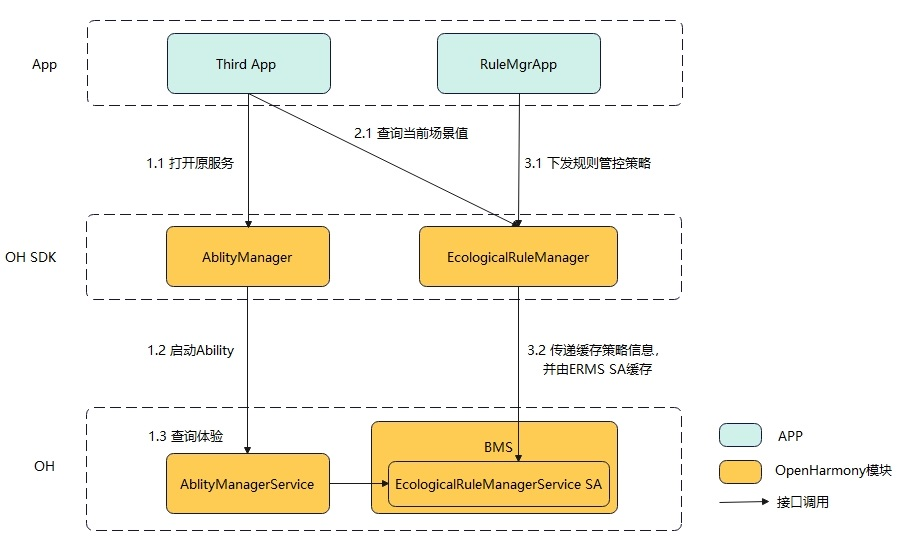
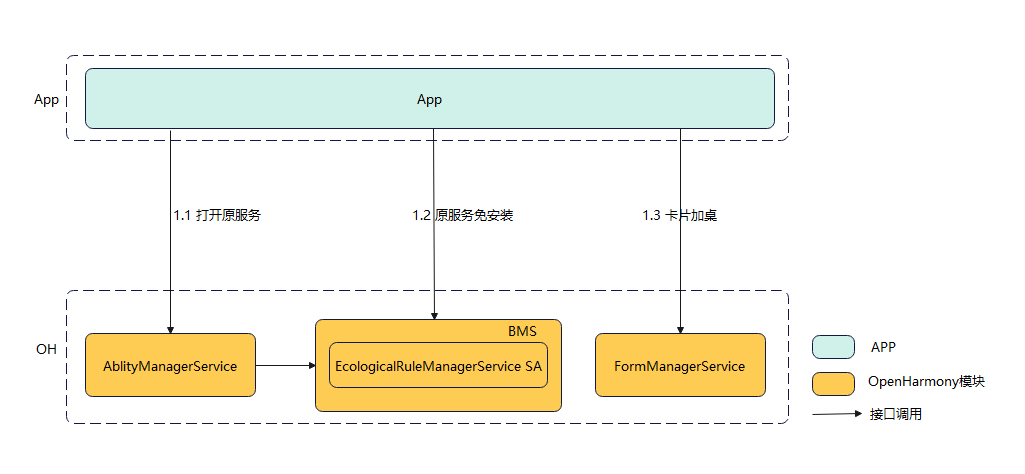
修改readme

diff --git a/README_zh.md b/README_zh.md
@@ -1,21 +1,18 @@
 # bundlemanager_ecological_rule_manager
 
 ### 简介
-生态规则管控服务负责对用户体验高敏感的行为（跳转、添加桌面卡片、免安装元服务）进行管控，确保整个生态的有序发展；
-在敏感行为发生时，支持根据规则策略数据，识别场景，做到场景化的体验管控；
-开发者可以基于场景，进行业务的差异化经营与分析，从而提升开发者的精细化运营诉求。
+生态规则管控服务提供一种系统的扩展能力，可以对用户体验的行为（跳转、添加桌面卡片、免安装元服务）进行管控。
+
 
 ### 软件架构
 ![image](figures/architecture_zh.jpg)
 
 以下是对于上图关键字段的描述信息：
 
-- `RuleMgrApp`：规则管控APP，负责管控规则，体验，APP数据的维护，刷新规则管控服务中相关数据。
-- `Third App`：三方App，在打开元服务时会受到生态规则服务的管控。
+- `App`：App，在打开元服务时会受到生态规则服务的管控。
+- `FormManagerService`：卡片管理服务。
 - `AbilityManagerService`：用于协调各Ability运行关系、及对生命周期进行调度的系统服务。
-- `EcologicalRuleManagerServie`：对下发的规则、策略等数据进行缓存，规则进行解析匹配，对业务提供相关接口。
-- `AbilityManager`：Ability管理SDK，由Ability管理服务提供。
-- `EcologicalRuleManager`：生态规则管理服务SDK，由ERMS SA提供。
+- `EcologicalRuleManagerServie`：生态规则管控服务，对元服务的拉起，加桌等行为进行管控。
 
 
 ### 目录结构
@@ -25,8 +22,7 @@
 ├── etc                                             
 │   └── init                                        # SA启动配置文件
 ├── interfaces                                      # 接口代码
-│   ├── innerkits                                   # 内部接口
-│   └── kits                                        # 外部接口
+│   └── innerkits                                   # 内部接口
 ├── profile                                         # 服务配置文件
 ├── services                                        # 服务代码
 ├── LICENSE                                         # 证书文件
@@ -44,130 +40,12 @@
 --ccache：编译时使用缓存功能。
 --build-target: 编译的部件名称。
 
-### 使用说明
-规则管控服务需要开发RuleMgrApp，下发生态规则管控策略到EcologicalRuleManagerService，才能在元服务的加载，拉起，加桌时起到管控的作用。主要有如下几步：
-#### 1 开发RuleMgrApp，申请权限 ohos.permission.MANAGE_ECOLOGICAL_RULE
-#### 2 刷新生态管控策略
-下发规则策略数据，场景体验，APP增强数据到EcologicalRuleManagerService：
-##### 2.1 下发规则策略数据
-规则策略数据用于描述场景值和对应的管控策略，采用DSL语言描述，支持对操作符的扩展。通过接口 function setRuleInfo(ruleInfo: string): number 下发，ruleInfo为json格式，描述策略信息。
-###### 示例（ruleInfo: string）
-下发两个策略：
-- 策略1
-场景值：10000；
-匹配规则：被调用方的包名是com.myapplication.test，或者从元服务中跳出；
-场景体验：如果是加载，则执行体验 action:"com.ecological.experience.LOAD_ABILITY"，由RuleMgrApp定义并处理该action；如果是拉起，则直接允许。
-- 策略2
-场景值：10001；
-匹配规则：调用方的包名是com.myapplication.test，并且是跳入元服务；
-场景体验：如果是加载，则直接允许；如果是打开元服务，则执行体验 action:"com.ecological.experience.OPEN_ABILITY"，由RuleMgrApp定义并处理该action。
-
-对应ruleInfo：
-```
-{
-	"dataVersion": "1",   
-	"list": [
-        {
-		"condition": "OR(EQUAL(BUNDLENAME(want),\"com.myapplication.test\"),
-                         IS_JUMP_TYPE(caller,want,\"1\"))",
-		"experience": {
-			"load": 2,
-			"open": 1
-		},
-		"sceneCode": "10000"
-	    }, 
-        {
-		"condition": "AND(IS_JUMP_TYPE(caller,want,\"2\"),
-                          EQUAL(BUNDLENAME(caller),\"com.myapplication.test\"))",
-		"experience": {
-			"load": 1,
-			"open": 2
-		},
-		"sceneCode": "10001"
-	}]
-}
-
-```
-|关键字|含义|
+### 接口使用说明
+生态规则管控服务只对系统的AMS/BMS/FMS开放内部接口，系统根据实际需要进行接口功能扩展。
+|接口|说明|
 |---|---|
-|dataVersion|规则数据的版本号|
-|List|规则数据列表，支持多条规则数据|
-|condition|规则DSL描述，当前支持 OR，EQUAL，IS_JUMP_TYPE，BUNDLENAME四种操作符，可以根据自己需要扩展|
-|experience|标识匹配该规则数据后，如果是加载（load），返回体验2；拉起（open），返回体验1；load，open 对应sceneExperience中的key, load对应"1", open对应"2"；load，open的取值对应下一级的key|
-|sceneCode|该规则对应的场景值|
+|QueryStartExperience(const Want &want, const CallerInfo &callerInfo, ExperienceRule &rule)：int32_t|提供给AMS使用，在元服务打开时调用。ExperienceRule为返回值，返回是否允许打开；不允许时可以返回具体的体验Want。|
+|QueryFreeInstallExperience(const Want &want, const CallerInfo &callerInfo ExperienceRule &rule)：int32_t|提供给BMS使用，在元服务免安装时调用。用于判断是否允许免安装，不允许时可以返回具体的体验Want。|
+|IsSupportPublishForm(const vector<AAFwk::Want> &wants, const CallerInfo &callerInfo, bool &bSupport)：int32_t|提供给FMS使用，在卡片加桌时调用。用于判断是否允许加桌|
+|EvaluateResolveInfos(const Want &want, const CallerInfo &callerInfo, int32_t type,std::vector<AbilityInfo> &abilityInfos)：int32_t|提供给AMS使用，根据垂类类型type对abilityInfos进行黑名单剔除，返回剔除后的列表|
 
-##### 2.2 下发场景体验：
-场景体验描述场景值对应的体验配置和允许加桌名单配置。通过接口 function setSceneExperience(ruleConfig: string, sceneExperience: string): number 下发，sceneExperience，ruleConfig均为json格式，sceneExperience描述体验，ruleConfig描述允许加桌的app包名。
-
-###### 示例1（sceneExperience: string）
-```
-{
-	"sceneExperience": {
-		"1": {
-			"1": {"allow": true},
-			"2": {"allow": false,
-				  "want": 
-                    "{ 
-                        \"deviceId\":\"\",
-                        \"bundleName\":\"\",
-                        \"abilityName\":\"\",
-                        \"uri\":\"\",
-                        \"type\":\"\",
-                        \"flags\":0,
-                        \"action\":\"com.ecological.experience.LOAD_ABILITY\",        
-                        \"entities\":null,
-                        \"parameters\":
-                            \"{\\\"ecological_experience_open_type\\\":
-                                {\\\"5\\\":\\\"1002\\\"}
-                            }\"
-                    }"
-			    }
-		},
-		"2": {
-			"1": {"allow": true},
-			"2": {"allow": false,
-				  "want":
-                    "{
-                        \"deviceId\":\"\",
-                        \"bundleName\":\"\",
-                        \"abilityName\":\"\",
-                        \"uri\":\"\",
-                        \"type\":\"\",
-                        \"flags\":0,
-                        \"action\":\"com.ecological.experience.OPEN_ABILITY\",
-                        \"entities\":null,
-                        \"parameters\":
-                            \"{\\\"ecological_experience_open_type\\\":
-                                {\\\"5\\\":\\\"2002\\\"}
-                            }\"
-                    }"
-			    }
-		}
-	}
-}
-```
-|关键字|含义|
-|---|---|
-|"sceneExperience": {"1": {}，"2": {}}|场景值对应的体验配置：1表示加载，对应规则ruleInfo信息experience中的 load；2表示拉起，对应规则ruleInfo信息experience中的 open；开发者可以根据自己的实际需要对此值进行扩展。|
-|"allow": true|直接允许|
-|want|场景值对应体验信息，可以为弹窗等|
-
-###### 示例2（ruleConfig: string）
-ruleConfig中addCardOwners标识允许执行加桌动作的应用，value为应用对应的包名。
-如下的addCardOwners中包含了com.app.launcher，表示com.app.launcher具有加桌的权限，允许
-com.app.launcher调用加桌接口将元服务加桌。
-```	
-{"ruleConfig": {
-		"addCardOwners": [{
-			"pkgName": "com.app.launcher"
-		}, {
-			"pkgName": "com.app.market"
-		}]
-    }
-}
-
-```
-##### 2.3 下发APP增强数据：
-APP增强数据属于扩展接口，开发者可以根据需要自行实现。
-接口定义：function setAppEnhancedDatas(operType: number, appData: string):：number。
-该接口主要考虑是在扩展规则指令时，某些场景需要用到app的一些属性信息，比如规则判断如果需要知道哪些APP是黑名单中的APP，可以通过此接口下发APP黑名单列表。